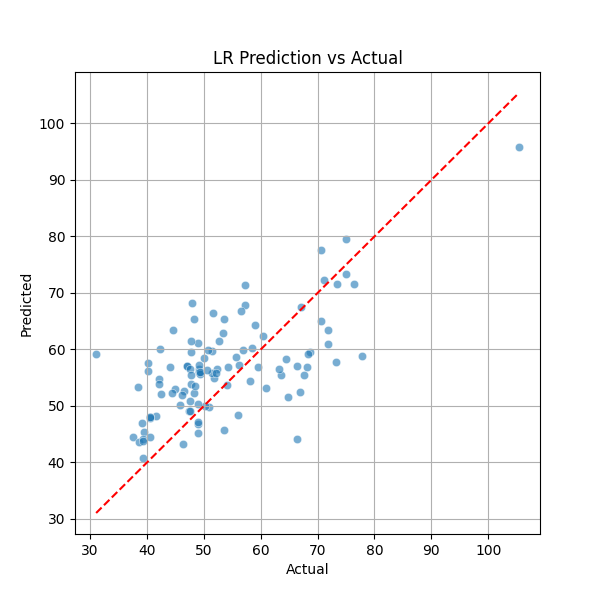
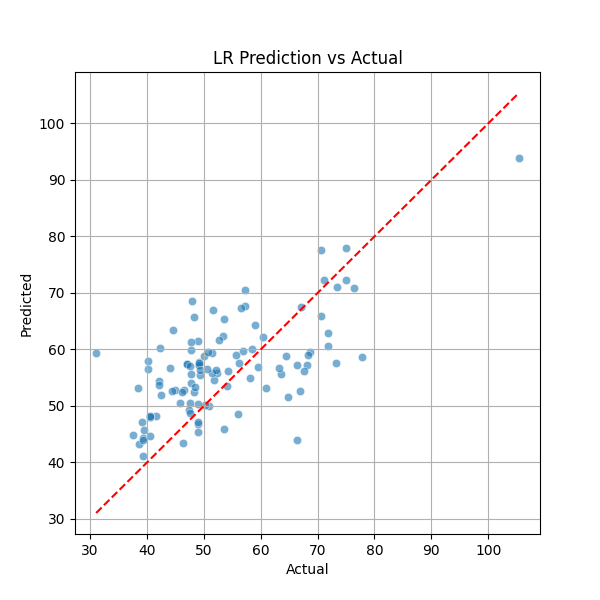
update model

diff --git a/models/solar_tree_model.py b/models/solar_tree_model.py
@@ -1,12 +1,26 @@
-from sklearn.tree import DecisionTreeRegressor
+from sklearn.ensemble import RandomForestRegressor
+import numpy as np
 
 class SklearnTreeWrapper:
-    def __init__(self, **kwargs):
-        self.model = DecisionTreeRegressor(**kwargs)
+    def __init__(self, n_estimators=100, max_depth=6, random_state=42):
+        self.model = RandomForestRegressor(
+            n_estimators=n_estimators,
+            max_depth=max_depth,
+            random_state=random_state,
+            n_jobs=-1
+        )
+        self.feature_names = None
+        self.feature_importances_ = None
 
-    def fit(self, X, y):
+    def fit(self, X, y, feature_names=None):
+        self.feature_names = feature_names
         self.model.fit(X.numpy(), y.numpy().flatten())
+        self.feature_importances_ = self.model.feature_importances_
 
     def predict(self, X):
-        import numpy as np
         return self.model.predict(X.numpy()).reshape(-1, 1)
+
+    def get_feature_importance(self):
+        if self.feature_importances_ is None:
+            return None
+        return sorted(zip(self.feature_names, self.feature_importances_), key=lambda x: -x[1])

diff --git a/models/solar_lr_model.py b/models/solar_lr_model.py
@@ -1,11 +1,21 @@
-from sklearn.linear_model import LinearRegression
+from sklearn.linear_model import Ridge
+import numpy as np
 
 class SklearnLRWrapper:
-    def __init__(self):
-        self.model = LinearRegression()
+     def __init__(self, alpha=1.0):
+        self.model = Ridge(alpha=alpha)
+        self.feature_names = None
+        self.coef_ = None
 
-    def fit(self, X, y):
+     def fit(self, X, y, feature_names=None):
+        self.feature_names = feature_names
         self.model.fit(X.numpy(), y.numpy().flatten())
+        self.coef_ = self.model.coef_
 
-    def predict(self, X):
+     def predict(self, X):
         return self.model.predict(X.numpy()).reshape(-1, 1)
+
+     def get_coefficients(self):
+        if self.coef_ is None:
+            return None
+        return sorted(zip(self.feature_names, self.coef_), key=lambda x: abs(x[1]), reverse=True)
